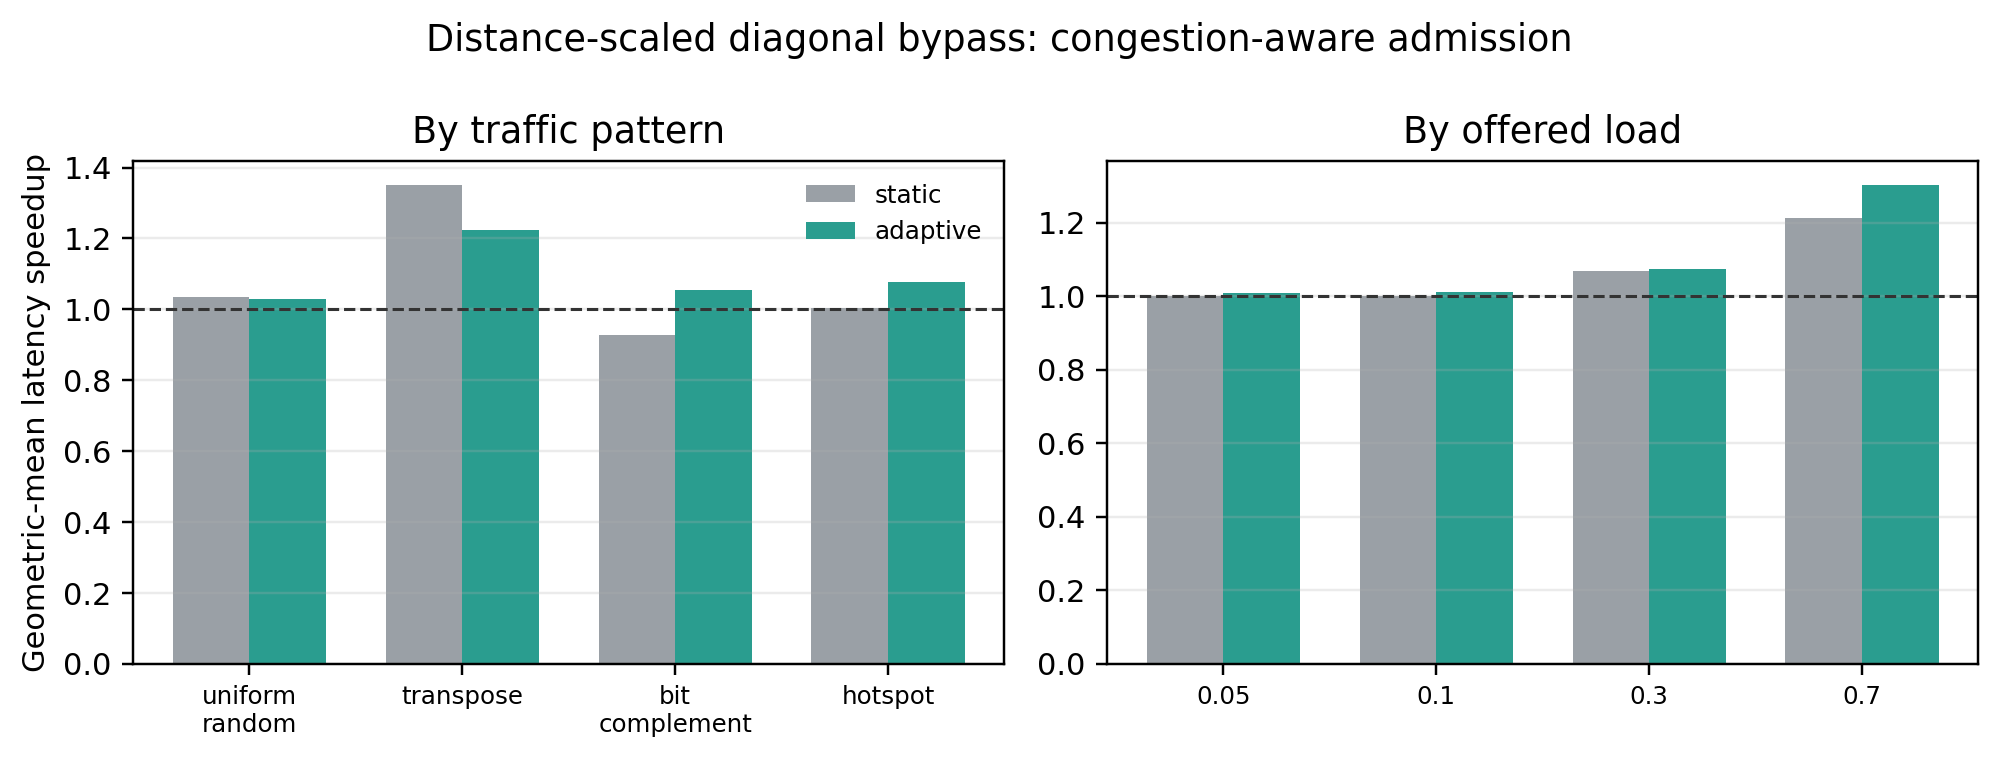
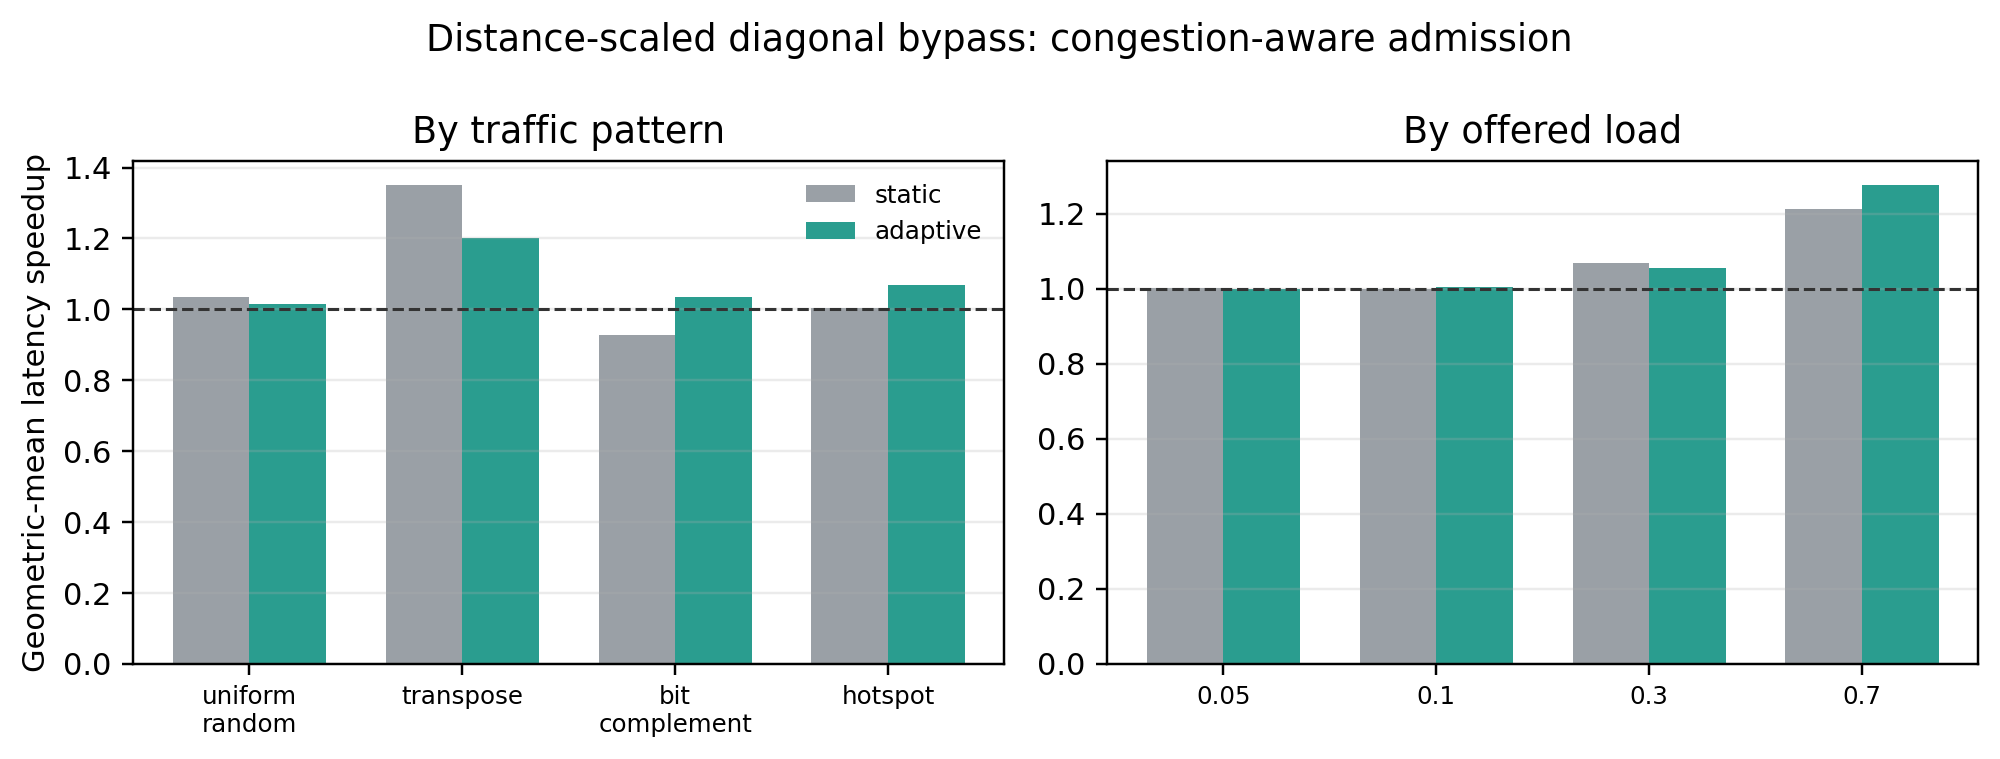
fix: reduce low-load bypass regressions

diff --git a/report/ai_collectives_report.tex b/report/ai_collectives_report.tex
@@ -40,8 +40,8 @@ checks.  Tree multicast
 reduces internal-link flit traffic by 39.51\% on average over 162 pairs and has
 a 3.588$\times$ median completion-latency speedup, although 10 cases regress in
 throughput.  For data traffic on distance-scaled diagonal links,
-congestion-aware bypass achieves 1.093$\times$ geometric-mean average-latency
-speedup and 1.101$\times$ p95-latency speedup over Mesh across 384 paired
+congestion-aware bypass achieves 1.078$\times$ geometric-mean average-latency
+speedup and 1.084$\times$ p95-latency speedup over Mesh across 384 paired
 cases; static bypass achieves 1.068$\times$ and 1.072$\times$.  Tensor
 streaming reduces the
 all-reduce trace window from 80,638,000 to 17,054,500 ticks (4.728$\times$
@@ -151,7 +151,9 @@ data VNet, the source compares free downstream VCs on the oracle's express
 port and the ordinary XY first port.  The shortcut's reverse credit path also
 models a coarse occupancy signal for the landing Router's next output.  A
 busy landing port causes XY fallback; when it is idle, source express-versus-XY
-free-VC pressure makes the final choice.  Packets longer than 32 flits
+free-VC pressure makes the final choice.  To reject allocator-timing noise at
+light load, express must have at least two more free VCs than XY; ties and a
+one-VC advantage fall back to XY.  Packets longer than 32 flits
 also use XY because a long wormhole reservation can monopolize a shortcut.
 The threshold is a command-line parameter.  Ordered VNet behavior remains static.
 The decision occurs only at the source and every suffix is XY.  Thus the
@@ -451,11 +453,11 @@ a sufficient hardware argument.
 The corrected data-VNet A/B study then optimizes the chosen diagonal,
 distance-scaled design.  Because speedups are ratios with a long saturation
 tail, Table~\ref{tab:bypass-opt} uses geometric means as its primary aggregate.
-Congestion admission improves geometric-mean average-latency speedup by 2.4\%
-relative to static bypass and p95 by 2.7\%; mean Mesh-relative throughput
-remains positive at +0.86\%.  More importantly, it prevents the static
+Congestion admission improves geometric-mean average-latency speedup by 1.0\%
+relative to static bypass and p95 by 1.2\%; mean Mesh-relative throughput
+remains positive at +0.82\%.  More importantly, it prevents the static
 bit-complement overload cases: the worst Mesh-relative speedup rises from
-0.128$\times$ to 0.957$\times$, and regressions exceeding 5\% fall from 44 to
+0.128$\times$ to 0.971$\times$, and regressions exceeding 5\% fall from 44 to
 zero of 384 cases.
 
 \begin{table}[ht]
@@ -468,7 +470,7 @@ cases per mode).  Latency columns are geometric-mean Mesh/bypass speedups.}
 Mode & Avg. latency & p95 latency & Mean throughput & $>5\%$ regressions \\
 \midrule
 Static oracle & 1.068$\times$ & 1.072$\times$ & +1.92\% & 44 \\
-Congestion-aware & 1.093$\times$ & 1.101$\times$ & +0.86\% & 0 \\
+Congestion-aware & 1.078$\times$ & 1.084$\times$ & +0.82\% & 0 \\
 \bottomrule
 \end{tabular}
 \end{table}
@@ -482,14 +484,14 @@ regressions larger than 5\%.}
 \label{fig:bypass-opt}
 \end{figure}
 
-By traffic pattern, adaptive speedups are 1.028$\times$ for uniform-random,
-1.223$\times$ for transpose, 1.056$\times$ for bit-complement, and
-1.076$\times$ for hotspot.  At offered load 0.7 the speedup is
-1.301$\times$ and no case regresses; at low load 0.05 it is 1.009$\times$.
+By traffic pattern, adaptive speedups are 1.015$\times$ for uniform-random,
+1.202$\times$ for transpose, 1.036$\times$ for bit-complement, and
+1.069$\times$ for hotspot.  At offered load 0.7 the speedup is
+1.276$\times$ and no case regresses; at low load 0.05 it is 1.000$\times$.
 The original 4$\times$4 hotspot/load-0.3 weakness is removed: its 12 cases
-have 1.102$\times$ geometric-mean speedup and a 1.000$\times$ minimum.
-Across the full matrix, 39 mild regressions remain, but the worst is
-0.957$\times$ and none exceeds 5\%.
+have 1.112$\times$ geometric-mean speedup and a 1.000$\times$ minimum.
+Across the full matrix, 19 mild regressions remain, but the worst is
+0.971$\times$ and none exceeds 5\%.
 
 G10 further shows that interaction is workload dependent.  Distance-scaled
 mean latency speedup is 0.965$\times$ for replicated unicast and
@@ -539,7 +541,7 @@ for this all-rank convergence/broadcast tree.
         while throughput regresses.
   \item Bypass wire cost is a Garnet latency/serialization and static-cost
         proxy, not area, power, repeater, or timing-closure evidence.
-  \item Bypass lookahead reaches only the express landing Router.  Thirty-nine
+  \item Bypass lookahead reaches only the express landing Router.  Nineteen
         of 384 optimized cases remain mildly below Mesh, although none is more
         than 5\% slower.  The occupancy signal is modeled without separate
         propagation-delay or wire-cost accounting.
@@ -589,14 +591,14 @@ python3 tests/gem5/lab4/run_bypass_performance.py \
   --no-bypass-adaptive-routing --jobs 64
 python3 tests/gem5/lab4/run_bypass_performance.py \
   --gem5 build/Garnet_standalone/gem5.opt \
-  --output report/raw-results/bypass-optimization-v4/static-data-vnet \
+  --output report/raw-results/bypass-optimization-v5/static-data-vnet \
   --inj-vnet 2 \
   --families diagonal --wire-models distance_scaled \
   --offered-loads 0.05 0.1 0.3 0.7 \
   --no-bypass-adaptive-routing --jobs 64
 python3 tests/gem5/lab4/run_bypass_performance.py \
   --gem5 build/Garnet_standalone/gem5.opt \
-  --output report/raw-results/bypass-optimization-v4/adaptive-data-vnet \
+  --output report/raw-results/bypass-optimization-v5/adaptive-data-vnet \
   --inj-vnet 2 \
   --families diagonal --wire-models distance_scaled \
   --offered-loads 0.05 0.1 0.3 0.7 \
@@ -628,7 +630,7 @@ reduction, with benefit increasing with fanout, although 10 throughput
 regressions and the dedicated fast path qualify the latency result.  Bypass is
 useful only conditionally: after selecting distance-scaled diagonal links and
 mapping tensor packets to the data VNet, bounded-lookahead admission achieves
-1.093$\times$ geometric-mean latency speedup, removes the 4$\times$4 hotspot
+1.078$\times$ geometric-mean latency speedup, removes the 4$\times$4 hotspot
 weakness, and reduces regressions larger than 5\% from 44 to zero.  Its
 32-flit cutoff and remaining mild low-load cases still reject a universal
 speedup claim.  Finally, exact

diff --git a/src/mem/ruby/network/garnet/RoutingUnit.cc b/src/mem/ruby/network/garnet/RoutingUnit.cc
@@ -359,9 +359,11 @@ RoutingUnit::outportComputeCustom(RouteInfo route,
                 if (lookahead_free < lookahead_low_watermark)
                     return xy_outport;
 
-                if (express_free < xy_free ||
-                    (express_free == xy_free &&
-                     express_free < vcs_per_vnet))
+                // Small free-VC differences are too noisy at light load.
+                // Reserve the shortcut for a decisive source-pressure
+                // advantage so occasional allocator timing does not create a
+                // longer tail through an otherwise uncongested landing router.
+                if (express_free <= xy_free + 1)
                     return xy_outport;
             }
             return outport->second;

diff --git a/report/scripts/build_final_report_data.py b/report/scripts/build_final_report_data.py
@@ -17,7 +17,7 @@ import numpy as np
 
 ROOT = Path(__file__).resolve().parents[2]
 RAW = ROOT / "report" / "raw-results" / "head-77fcf26d"
-OPT_RAW = ROOT / "report" / "raw-results" / "bypass-optimization-v4"
+OPT_RAW = ROOT / "report" / "raw-results" / "bypass-optimization-v5"
 DATA = ROOT / "report" / "data"
 FIGURES = ROOT / "report" / "figures"
 

diff --git a/report/README.md b/report/README.md
@@ -36,7 +36,7 @@ The scripts reject missing/non-finite multicast pairs, inconsistent bypass
 VNet/routing metadata, and inconsistent final artifact counts or statuses
 before updating aggregate tables and figures. The bypass optimization raw
 artifacts are under the git-ignored
-`raw-results/bypass-optimization-v4/{static,adaptive}-data-vnet/` directories.
+`raw-results/bypass-optimization-v5/{static,adaptive}-data-vnet/` directories.
 
 ## Build the PDF
 
